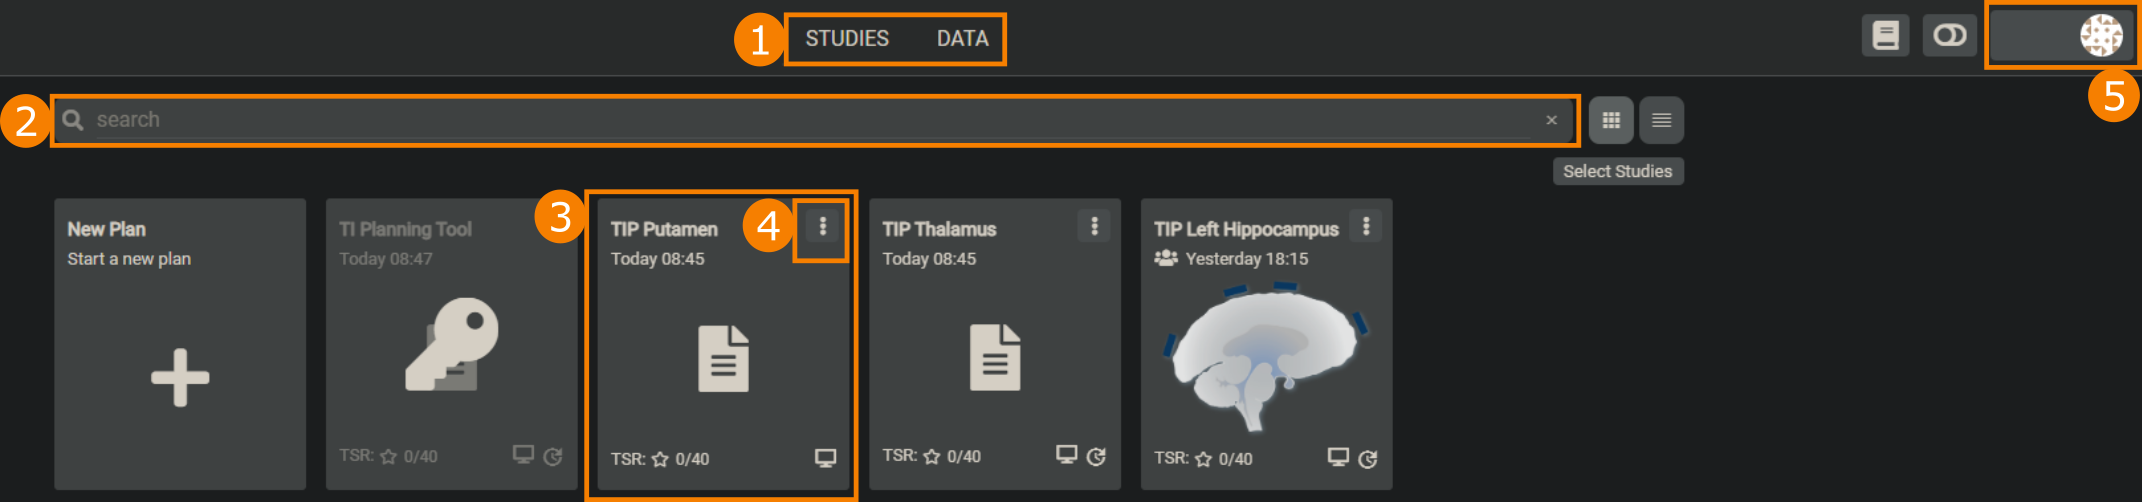
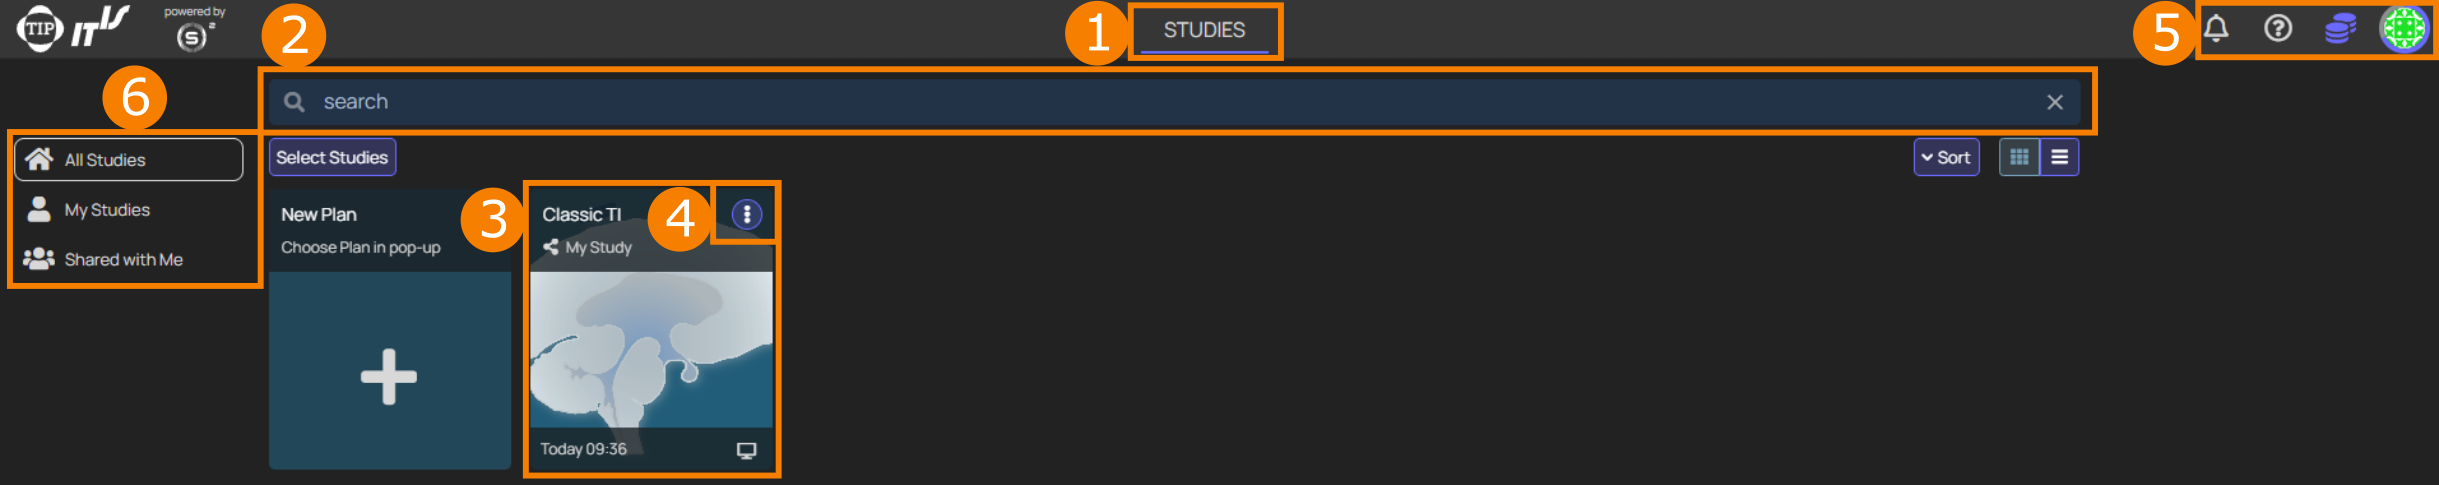
final fixes to dashboard.

diff --git a/docs/platform_introduction/dashboard.md b/docs/platform_introduction/dashboard.md
@@ -1,14 +1,12 @@
 ### Dashboard
 
-The **Dashboard** hosts the two principal views: ```Studies``` and ```Data``` (1.).
+The **Dashboard** hosts the principal view: ```Studies``` (1.).
 
 <p align="center">
   <img width="90%" src="assets/quickguide/dashboard.png">
 </p>
 
-
-- Under ```Studies```, existing Plans (own Plans, or plans that have been shared by other users) can be accessed (3.) and managed (4.), and new Plans can be [created](docs/plan/create_new_plan.md).
-- Under ```Data```, the existing data can be managed and downloaded (see [Data](/docs/platform_introduction/data.md)).
+Under ```Studies```, existing Plans (own Plans, or plans that have been shared by other users (6.)) can be accessed (3.) and managed (4.), and new Plans can be [created](docs/plan/create_new_plan.md).
 
 In addition, buttons on the top right provide access to notifications, various support material/contact options, and a menu (5.) with the following entries:
 
@@ -21,7 +19,7 @@ In addition, buttons on the top right provide access to notifications, various s
 - _**License**_: Information about the TI Planning Tool license, as well as the licenses of the underlying technologies.
 - _**Log out**_: Logging out from the **TI Planning Tool**
 
-The user access more functionality such as **_Overview_**, **Study Files**, **Sharing**, and **_Services Updates_** (3.) through the three-dot menu (1.) icon (see the [o<sup>2</sup>S<sup>2</sup>PARC User Manual](https://docs.osparc.io/#/) for information on these functionalities as well as the locking states). 
+The user access more functionality such as **_Overview_**, [Study Files](docs\platform_introduction\data.md), **Sharing**, and **_Services Updates_** (3.) through the three-dot menu (1.) icon (see the [o<sup>2</sup>S<sup>2</sup>PARC User Manual](https://docs.osparc.io/#/) for information on these functionalities as well as the locking states). 
 If Services within a Plan need updating, the small circular arrow sign will appear in the bottom right corner (2.) of the Plan
 on the **Dashboard**. Clicking this icon will bring you directly to the update menu where you see the current and newest available
 versions of each Service and where you can update them either individually or all together (4.).
